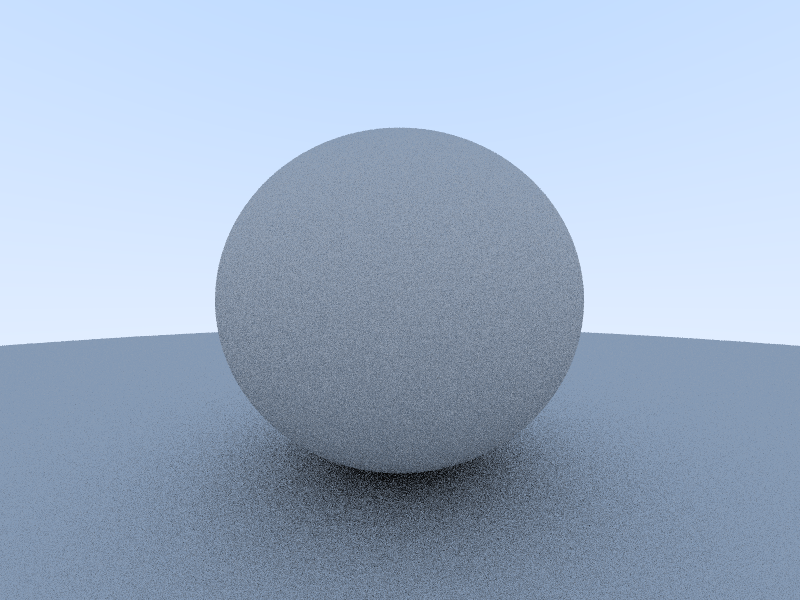
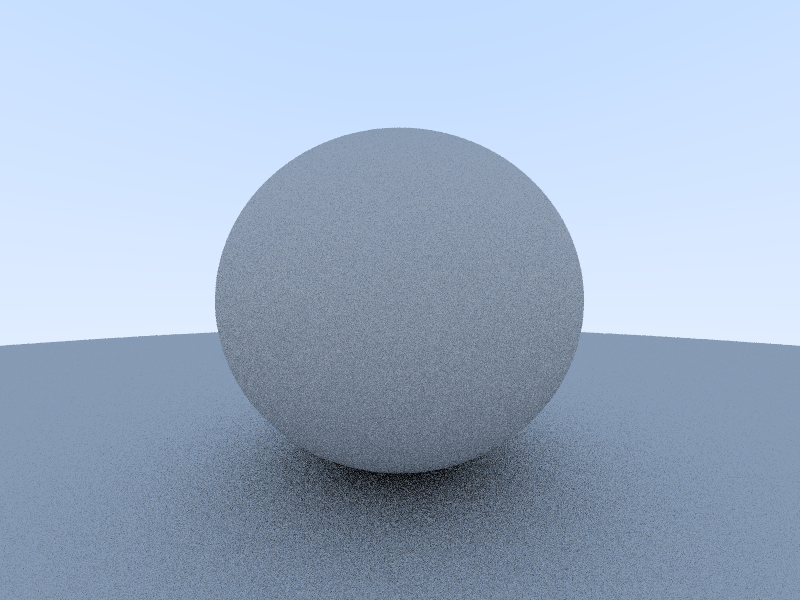
Introduce materials.

diff --git a/raytracer/src/lib.rs b/raytracer/src/lib.rs
@@ -1,3 +1,4 @@
+use palette::Srgb;
 use rand::Rng;
 use std::cmp::PartialEq;
 use std::f64;
@@ -70,6 +71,10 @@ impl Point3D {
 
     pub fn dot(&self, other: &Point3D) -> f64 {
         self.x * other.x + self.y * other.y + self.z * other.z
+    }
+
+    pub fn near_zero(&self) -> bool {
+        self.x.abs() < f64::EPSILON && self.y.abs() < f64::EPSILON && self.z.abs() < f64::EPSILON
     }
 }
 
@@ -339,6 +344,14 @@ fn test_random() {
 }
 
 #[test]
+fn test_near_zero() {
+    let p = Point3D::new(0.1, 0.2, 0.3);
+    assert!(!p.near_zero());
+    let p = Point3D::new(0.0, 0.0, 0.0);
+    assert!(p.near_zero());
+}
+
+#[test]
 fn test_ray() {
     let p = Point3D::new(0.1, 0.2, 0.3);
     let q = Point3D::new(0.2, 0.3, 0.4);
@@ -371,15 +384,23 @@ pub struct HitRecord {
     pub point: Point3D,
     pub normal: Point3D,
     pub front_face: bool,
+    pub material: Material,
 }
 
 impl HitRecord {
-    pub fn new(t: f64, point: Point3D, normal: Point3D, front_face: bool) -> HitRecord {
+    pub fn new(
+        t: f64,
+        point: Point3D,
+        normal: Point3D,
+        front_face: bool,
+        material: Material,
+    ) -> HitRecord {
         HitRecord {
             t,
             point,
             normal,
             front_face,
+            material,
         }
     }
 }
@@ -391,11 +412,18 @@ pub trait Hittable {
 pub struct Sphere {
     center: Point3D,
     radius: f64,
+    material: Material,
 }
 
 impl Sphere {
     pub fn new(center: Point3D, radius: f64) -> Sphere {
-        Sphere { center, radius }
+        Sphere {
+            center,
+            radius,
+            material: Material::Lambertian(Lambertian::new(Srgb::new(
+                0.5 as f32, 0.5 as f32, 0.5 as f32,
+            ))),
+        }
     }
 }
 
@@ -420,6 +448,7 @@ impl Hittable for Sphere {
                     point: p,
                     normal: if front_face { normal } else { -normal },
                     front_face,
+                    material: self.material,
                 });
             }
         }
@@ -434,4 +463,69 @@ fn test_sphere_hit() {
     let ray = Ray::new(Point3D::new(0.0, 0.0, -5.0), Point3D::new(0.0, 0.0, 1.0));
     let hit = sphere.hit(&ray, 0.0, f64::INFINITY);
     assert_eq!(hit.unwrap().t, 4.0);
+}
+
+pub trait Scatterable {
+    fn scatter(&self, ray: &Ray, hit_record: &HitRecord) -> Option<(Ray, Srgb)>;
+}
+
+#[derive(Debug, Clone, Copy)]
+pub enum Material {
+    Lambertian(Lambertian),
+    Metal(Metal),
+}
+
+impl Scatterable for Material {
+    fn scatter(&self, ray: &Ray, hit_record: &HitRecord) -> Option<(Ray, Srgb)> {
+        match self {
+            Material::Lambertian(l) => l.scatter(ray, hit_record),
+            Material::Metal(m) => m.scatter(ray, hit_record),
+        }
+    }
+}
+
+#[derive(Debug, Clone, Copy)]
+pub struct Lambertian {
+    pub albedo: Srgb,
+}
+
+impl Lambertian {
+    pub fn new(albedo: Srgb) -> Lambertian {
+        Lambertian { albedo }
+    }
+}
+
+impl Scatterable for Lambertian {
+    fn scatter(&self, _ray: &Ray, hit_record: &HitRecord) -> Option<(Ray, Srgb)> {
+        let mut scatter_direction = hit_record.normal + Point3D::random_in_unit_sphere();
+        if scatter_direction.near_zero() {
+            scatter_direction = hit_record.normal;
+        }
+        let target = hit_record.point + scatter_direction;
+        let scattered = Ray::new(hit_record.point, target - hit_record.point);
+        let attenuation = self.albedo;
+        Some((scattered, attenuation))
+    }
+}
+
+#[derive(Debug, Clone, Copy)]
+pub struct Metal {
+    pub albedo: Srgb,
+}
+
+fn reflect(v: &Point3D, n: &Point3D) -> Point3D {
+    *v - *n * (2.0 * v.dot(n))
+}
+
+impl Scatterable for Metal {
+    fn scatter(&self, ray: &Ray, hit_record: &HitRecord) -> Option<(Ray, Srgb)> {
+        let reflected = reflect(&ray.direction, &hit_record.normal);
+        let scattered = Ray::new(hit_record.point, reflected);
+        let attenuation = self.albedo;
+        if scattered.direction.dot(&hit_record.normal) > 0.0 {
+            Some((scattered, attenuation))
+        } else {
+            None
+        }
+    }
 }

diff --git a/raytracer/src/main.rs b/raytracer/src/main.rs
@@ -11,6 +11,7 @@ use raytracer::HitRecord;
 use raytracer::Hittable;
 use raytracer::Point3D;
 use raytracer::Ray;
+use raytracer::Scatterable;
 use raytracer::Sphere;
 
 fn write_image(
@@ -43,17 +44,20 @@ fn ray_color(ray: &Ray, world: &Vec<Sphere>, depth: i32) -> Srgb {
     let hit = hit_world(world, ray, 0.001, std::f64::MAX);
     match hit {
         Some(hit_record) => {
-            let target = hit_record.point + hit_record.normal + Point3D::random_in_unit_sphere();
-            let target_color = ray_color(
-                &Ray::new(hit_record.point, target - hit_record.point),
-                world,
-                depth - 1,
-            );
-            return Srgb::new(
-                0.5 * target_color.red,
-                0.5 * target_color.green,
-                0.5 * target_color.blue,
-            );
+            let scattered = hit_record.material.scatter(ray, &hit_record);
+            match scattered {
+                Some((scattered_ray, albedo)) => {
+                    let target_color = ray_color(&scattered_ray, world, depth - 1);
+                    return Srgb::new(
+                        albedo.red * target_color.red,
+                        albedo.green * target_color.green,
+                        albedo.blue * target_color.blue,
+                    );
+                }
+                None => {
+                    return Srgb::new(0.0, 0.0, 0.0);
+                }
+            }
         }
         None => {
             let t: f32 = 0.5 * (ray.direction.unit_vector().y() as f32 + 1.0);
